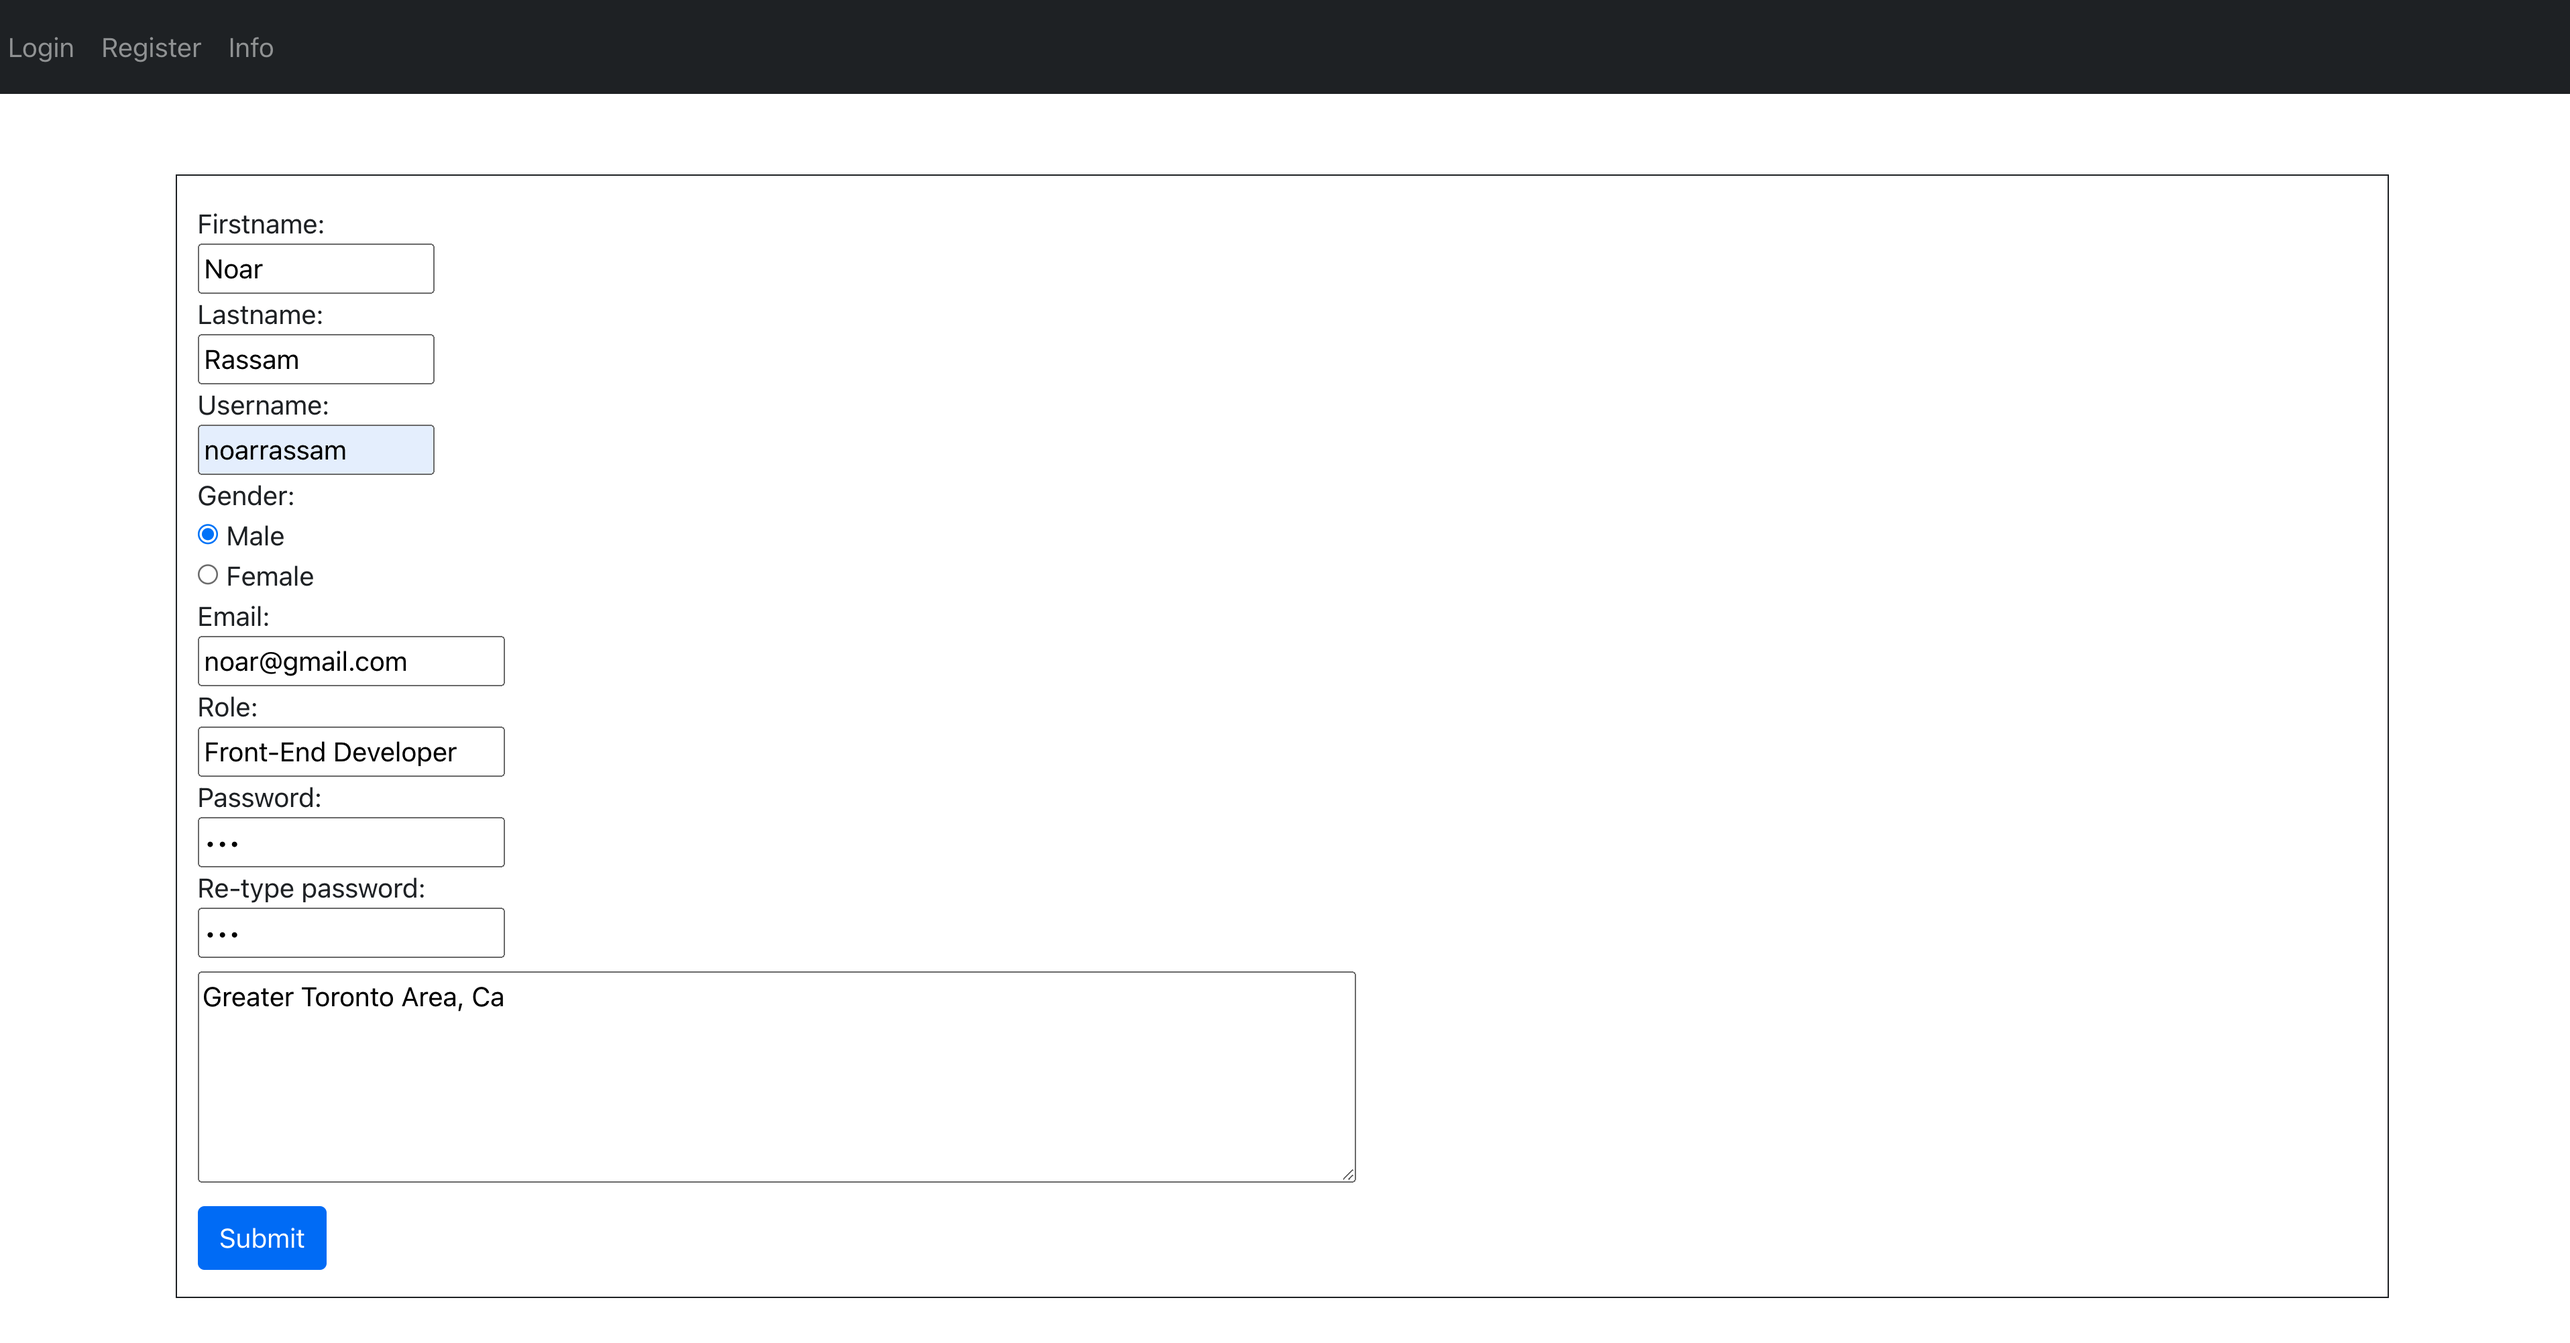
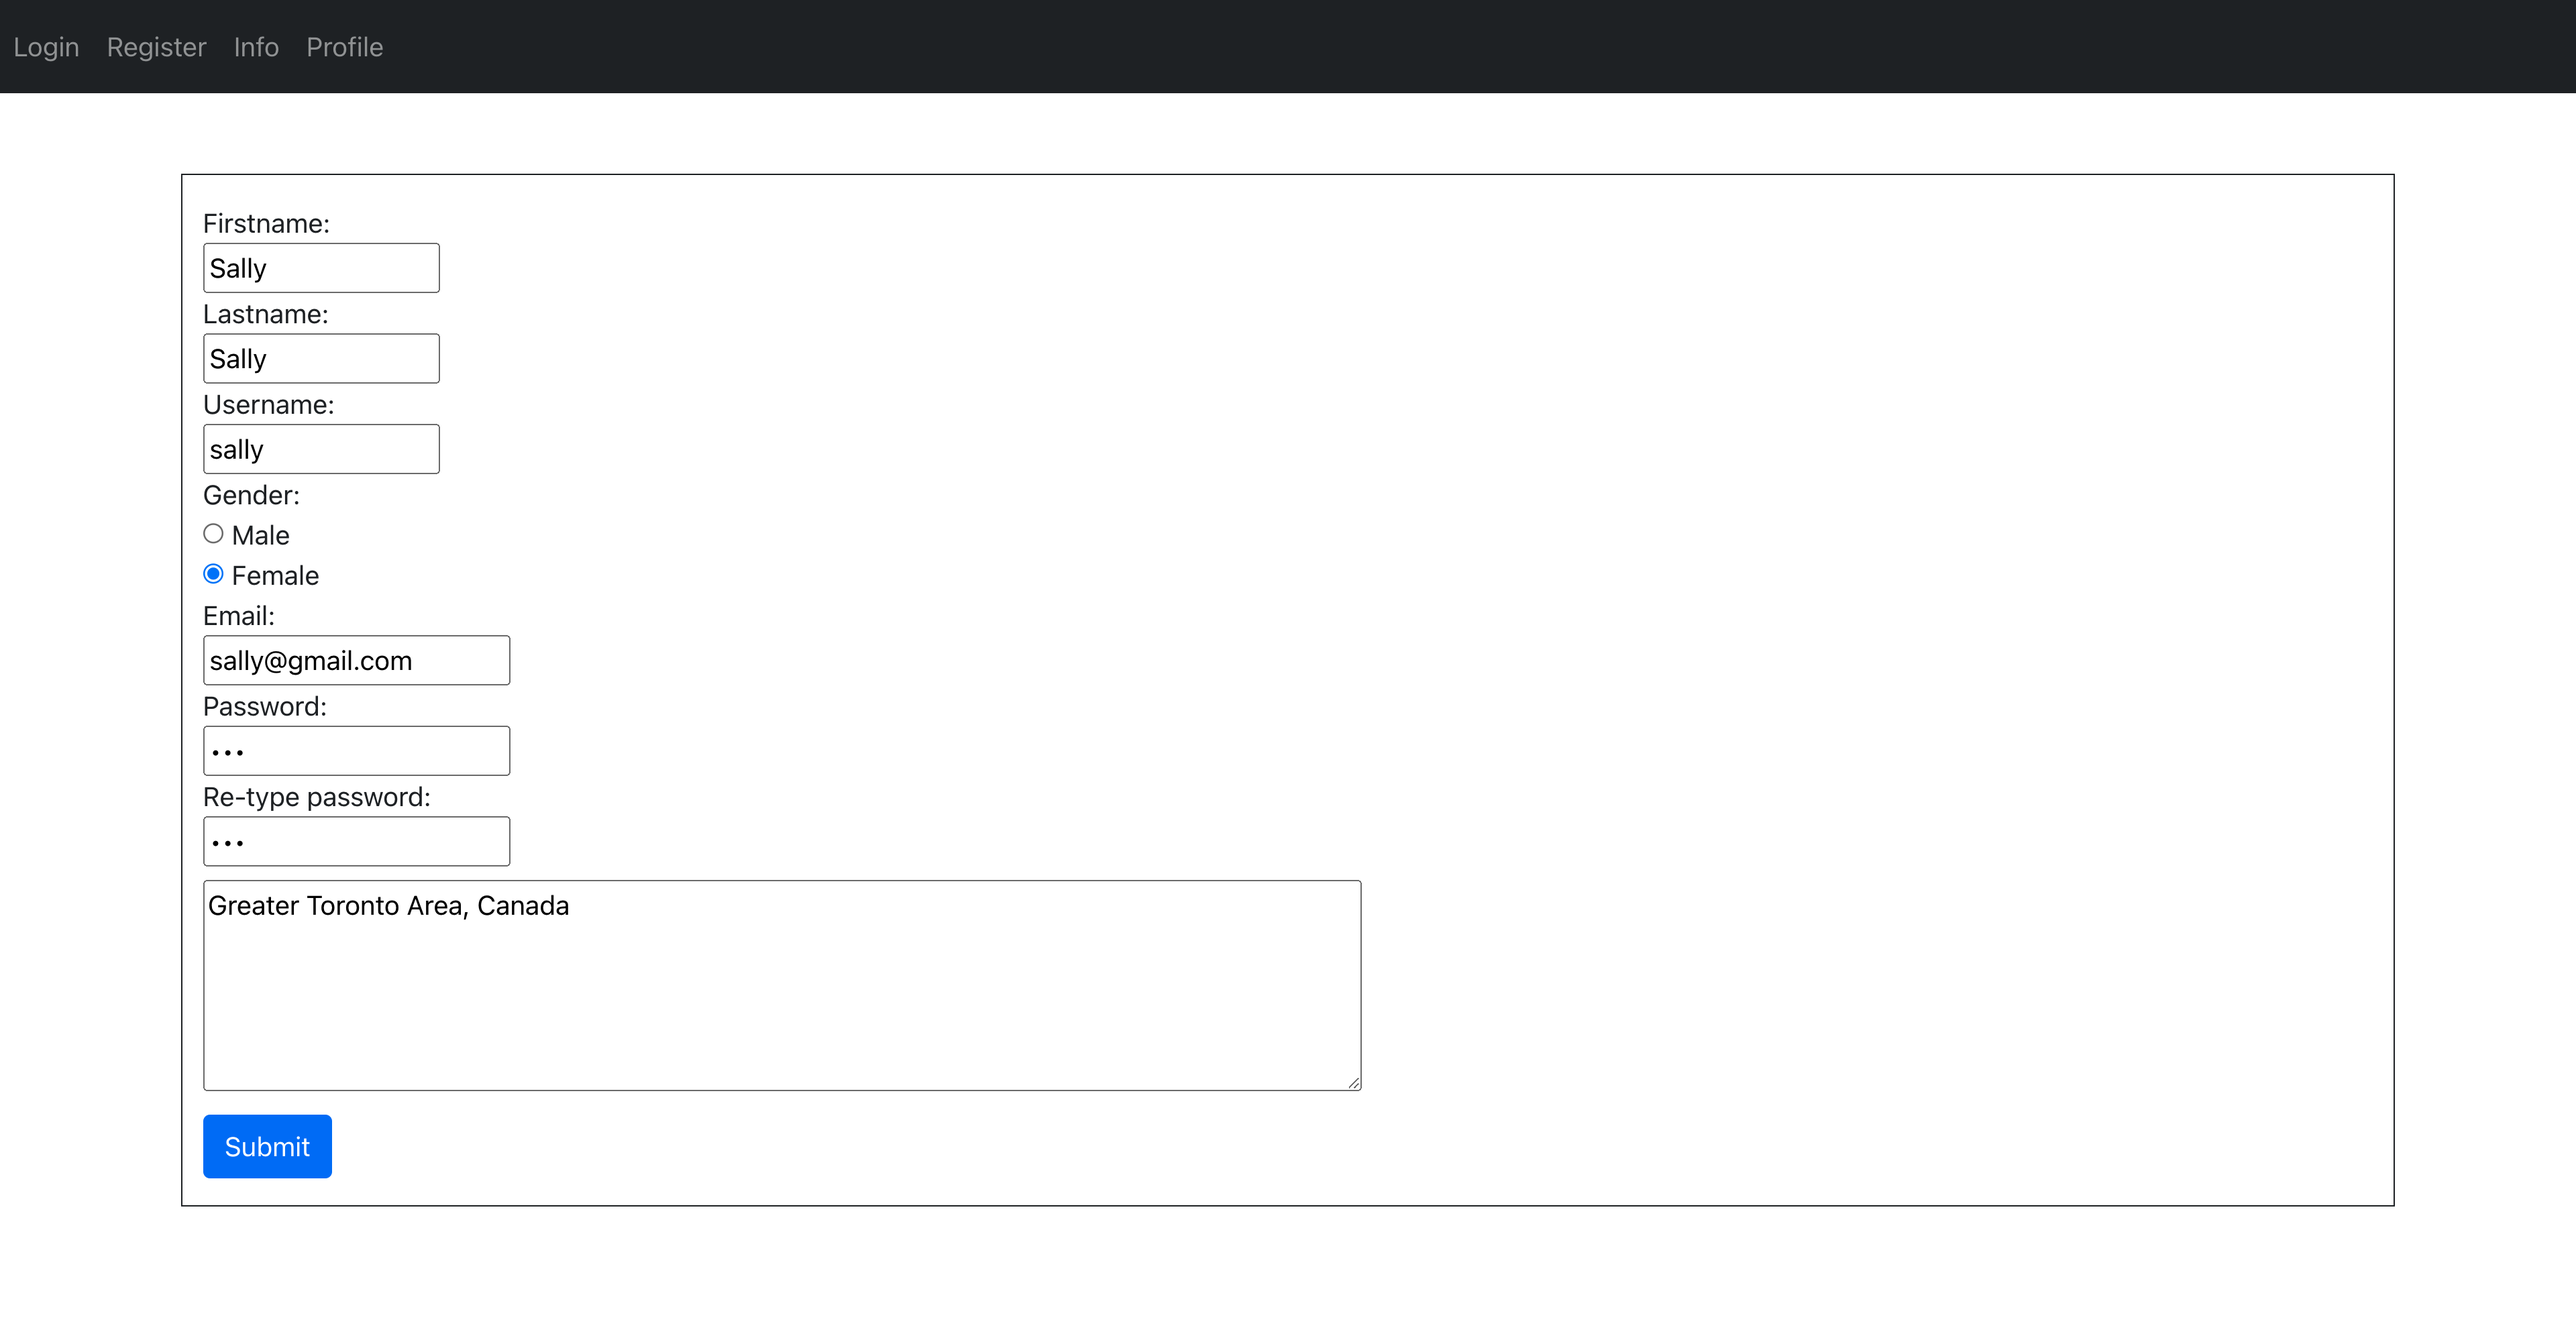
modified readme file

Changed region(s): [[0.0621, 0.1549, 0.2174, 0.7746], [0.0621, 0.8056, 0.1553, 0.9605], [0.0, 0.031, 0.1553, 0.062]]

diff --git a/src/components/Register.js b/src/components/Register.js
@@ -101,17 +101,6 @@ export default function Register() {
               onChange={handleOnChange}
               value={formData.email}
             />{" "}
-            <br />
-            Role:
-            <input
-              type="text"
-              required
-              id="role"
-              name="role"
-              onChange={handleOnChange}
-              value={formData.role}
-            />{" "}
-            <br />
             Password:
             <input
               type="Password"

diff --git a/src/components/Nav.js b/src/components/Nav.js
@@ -19,6 +19,11 @@ export default function Nav() {
             Info
           </Link>
         </li>
+        <li className="nav-item">
+          <Link className="nav-link" to="/profile">
+            Profile
+          </Link>
+        </li>
       </ul>
     </nav>
   );
